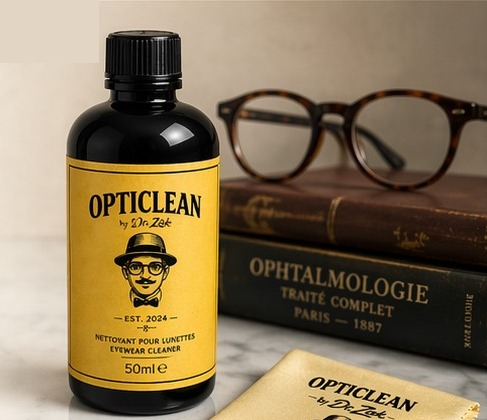
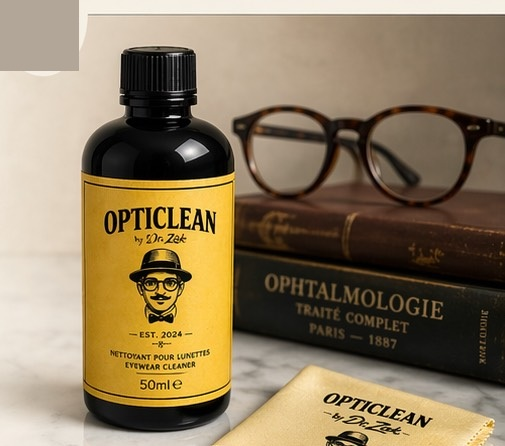
Final homepage: reference imagery blended seamlessly, nav switchers, nbsp prices, browser-language auto-detect

diff --git a/index.html b/index.html
@@ -92,12 +92,6 @@
   .cur.open .cur-menu{opacity:1;visibility:visible;transform:translateY(0)}
   .cur-menu button{display:block;width:100%;text-align:left;color:var(--ink);font-size:.78rem;padding:.5rem .7rem;border-radius:3px;transition:background .2s}
   .cur-menu button:hover{background:var(--cream)}
-  .announce .wrap{justify-content:center}
-  .nav-r .lang-switch button{color:var(--muted);font-size:.72rem}
-  .nav-r .lang-switch button.on{color:var(--gold-deep)}
-  .nav-r .lang-switch{gap:.45rem}
-  .nav-r .cur-btn{color:var(--ink);font-size:.72rem}
-  @media(max-width:980px){ .nav-r .lang-switch, .nav-r .cur{display:none} }
 
   /* ============ HEADER ============ */
   .header{position:sticky;top:0;z-index:50;background:rgba(245,239,226,.9);backdrop-filter:blur(10px);border-bottom:1px solid var(--line-soft);transition:box-shadow .35s}
@@ -348,6 +342,25 @@
     .footer .wrap{grid-template-columns:1fr}
     .rev-track-wrap{margin:0 44px}
   }
+  /* ============ FINAL POLISH ============ */
+  .announce .wrap{justify-content:center}
+  .nav-link{white-space:nowrap}
+  .nav-r .lang-switch{gap:.45rem}
+  .nav-r .lang-switch button{color:var(--muted);font-size:.72rem}
+  .nav-r .lang-switch button.on{color:var(--gold-deep)}
+  .nav-r .cur-btn{color:var(--ink);font-size:.72rem;white-space:nowrap}
+  .pv-price,.pro-price,.pro-pack,.pro-mincmd,.sum-row span:last-child{white-space:nowrap}
+  .hero-photo-wrap{position:relative;max-width:560px;margin:0 auto}
+  .hero-photo{width:100%;height:auto;display:block;border-radius:4px}
+  .hero-photo-wrap::after{content:"";position:absolute;inset:0;pointer-events:none;background:
+    linear-gradient(to right, var(--cream) 0%, rgba(245,239,226,0) 12%),
+    linear-gradient(to left, var(--cream) 0%, rgba(245,239,226,0) 9%),
+    linear-gradient(to bottom, var(--cream) 0%, rgba(245,239,226,0) 10%),
+    linear-gradient(to top, var(--cream) 0%, rgba(245,239,226,0) 10%)}
+  .card{background:#F4EBDE}
+  .pv-photo{width:110px;height:auto;display:block;margin:0 auto;border-radius:3px}
+  .pro-photo{width:215px;height:auto;display:block;margin:0 auto;border-radius:3px}
+  @media(max-width:980px){ .nav-r .lang-switch, .nav-r .cur{display:none} }
   @media(prefers-reduced-motion:reduce){
     *{transition:none!important;animation:none!important;scroll-behavior:auto!important}
     .reveal{opacity:1;transform:none}
@@ -391,7 +404,7 @@
         <button id="lang-en" onclick="setLang('en')">EN</button>
       </div>
       <div class="cur" id="curWrap">
-        <button class="cur-btn" id="curBtn" aria-haspopup="true"><span id="curLabel">EUR €</span><svg viewBox="0 0 12 8" fill="none" stroke="currentColor" stroke-width="1.6"><path d="M1 1.5 6 6l5-4.5"/></svg></button>
+        <button class="cur-btn" id="curBtn" aria-haspopup="true"><span id="curLabel">EUR&nbsp;€</span><svg viewBox="0 0 12 8" fill="none" stroke="currentColor" stroke-width="1.6"><path d="M1 1.5 6 6l5-4.5"/></svg></button>
         <div class="cur-menu" id="curMenu">
           <button onclick="setCurrency('EUR')">EUR &nbsp;€</button>
           <button onclick="setCurrency('CHF')">CHF</button>
@@ -435,7 +448,7 @@
 
     <!-- HERO VISUAL — editorial product scene. Swap for client's real product photography. -->
     <div class="hero-visual reveal" data-d="2">
-      <img class="hero-photo" src="/hero-product.jpg" alt="OptiClean — bouteille, lunettes et livres anciens" onerror="this.onerror=null;this.style.display='none';var f=document.getElementById('heroFallback');if(f)f.style.display='block';">
+      <div class="hero-photo-wrap"><img class="hero-photo" src="/hero-product.jpg" alt="OptiClean — bouteille, lunettes et livres anciens" onerror="this.onerror=null;this.parentNode.style.display='none';var f=document.getElementById('heroFallback');if(f)f.style.display='block';"></div>
       <div id="heroFallback" style="display:none">
       <svg viewBox="0 0 580 540" xmlns="http://www.w3.org/2000/svg">
         <defs>
@@ -544,20 +557,7 @@
         <div class="card-head"><div class="ttl" data-i18n="pv.label">Pour vous</div><div class="ttl-rule"></div></div>
         <div class="pv-inner">
           <div class="pv-img">
-            <svg viewBox="0 0 120 250" xmlns="http://www.w3.org/2000/svg">
-              <ellipse cx="60" cy="244" rx="40" ry="7" fill="#3a2a17" opacity=".15"/>
-              <rect x="38" y="0" width="44" height="26" rx="4" fill="#1a1206"/>
-              <path d="M46 26h28v10c0 4 12 5 12 18v4H34v-4c0-13 12-14 12-18z" fill="#2e2014"/>
-              <rect x="8" y="58" width="104" height="184" rx="18" fill="url(#glass)"/>
-              <rect x="8" y="58" width="40" height="184" rx="18" fill="url(#glassHi)"/>
-              <rect x="18" y="92" width="84" height="124" rx="6" fill="#e8b23c"/>
-              <rect x="18" y="92" width="84" height="124" rx="6" fill="none" stroke="#b9851b" stroke-width="1.2"/>
-              <text x="60" y="118" font-family="Georgia,serif" font-size="12" font-weight="700" fill="#241a06" text-anchor="middle" letter-spacing="1">OPTICLEAN</text>
-              <text x="60" y="130" font-family="Georgia,serif" font-style="italic" font-size="6.5" fill="#5a4310" text-anchor="middle">by Dr. Zac</text>
-              <circle cx="60" cy="158" r="13" fill="none" stroke="#b9851b" stroke-width="1.2"/>
-              <circle cx="56" cy="159" r="2.6" fill="none" stroke="#241a06" stroke-width="1"/><circle cx="64" cy="159" r="2.6" fill="none" stroke="#241a06" stroke-width="1"/>
-              <text x="60" y="200" font-family="Georgia,serif" font-size="10" font-weight="700" fill="#241a06" text-anchor="middle">50ml</text>
-            </svg>
+            <img class="pv-photo" src="/bottle-product.jpg" alt="Bouteille OptiClean 50ml">
           </div>
           <div class="pv-body">
             <div class="pv-name" data-i18n="pv.name">Bouteille 50ml</div>
@@ -574,23 +574,7 @@
         <div class="card-head"><div class="ttl" data-i18n="pro.label">Pour les professionnels</div><div class="ttl-rule"></div></div>
         <div class="pro-inner">
           <div class="pro-img">
-            <svg viewBox="0 0 220 170" xmlns="http://www.w3.org/2000/svg">
-              <ellipse cx="110" cy="158" rx="92" ry="10" fill="#3a2a17" opacity=".14"/>
-              <!-- bottles in box -->
-              <g>
-                <g transform="translate(44 36)"><rect x="0" y="0" width="18" height="44" rx="4" fill="#33240f"/><rect x="5" y="-8" width="8" height="10" rx="2" fill="#15100a"/></g>
-                <g transform="translate(70 30)"><rect x="0" y="0" width="18" height="50" rx="4" fill="#3f2c12"/><rect x="5" y="-8" width="8" height="10" rx="2" fill="#15100a"/></g>
-                <g transform="translate(96 26)"><rect x="0" y="0" width="18" height="54" rx="4" fill="#33240f"/><rect x="5" y="-8" width="8" height="10" rx="2" fill="#15100a"/></g>
-                <g transform="translate(122 30)"><rect x="0" y="0" width="18" height="50" rx="4" fill="#3f2c12"/><rect x="5" y="-8" width="8" height="10" rx="2" fill="#15100a"/></g>
-                <g transform="translate(148 36)"><rect x="0" y="0" width="18" height="44" rx="4" fill="#33240f"/><rect x="5" y="-8" width="8" height="10" rx="2" fill="#15100a"/></g>
-              </g>
-              <!-- box -->
-              <path d="M28 70 L110 88 L192 70 L192 78 L110 98 L28 78 Z" fill="#cfa46a"/>
-              <path d="M28 78 L110 98 L110 156 L28 134 Z" fill="#b0824e"/>
-              <path d="M192 78 L110 98 L110 156 L192 134 Z" fill="#9a6f3f"/>
-              <text x="66" y="126" font-family="Georgia,serif" font-size="13" font-weight="700" fill="#3a2613" text-anchor="middle" transform="rotate(-4 66 126)" letter-spacing="1">OPTICLEAN</text>
-              <g transform="translate(150 118) rotate(4)" stroke="#3a2613" stroke-width="1" fill="none" opacity=".8"><circle cx="0" cy="0" r="11" stroke="#7a5630"/><circle cx="-3.4" cy="1" r="2.4"/><circle cx="3.4" cy="1" r="2.4"/></g>
-            </svg>
+            <img class="pro-photo" src="/pack-product.jpg" alt="Pack de 20 bouteilles OptiClean">
           </div>
           <div class="pro-body">
             <div class="pro-name" data-i18n="pro.name">Pack de 20 bouteilles</div>
@@ -811,7 +795,7 @@ let lang='fr', currency='EUR';
 const RATE={EUR:1,CHF:0.95}, BOTTLE_EUR=9.95, SHIP_EUR=4.90;
 let cartQty=0;
 
-function fmt(eur){const v=eur*RATE[currency];return currency==='EUR'?v.toFixed(2).replace('.',',')+' €':'CHF '+v.toFixed(2);}
+function fmt(eur){const v=eur*RATE[currency];return currency==='EUR'?v.toFixed(2).replace('.',',')+'\u00A0€':'CHF\u00A0'+v.toFixed(2);}
 function renderPrices(){document.querySelectorAll('[data-eur]').forEach(el=>{el.textContent=fmt(parseFloat(el.getAttribute('data-eur')));});document.getElementById('curLabel').textContent=currency==='EUR'?'EUR €':'CHF';}
 function applyI18n(){
   document.querySelectorAll('[data-i18n]').forEach(el=>{const v=STR[lang][el.getAttribute('data-i18n')];if(v!=null)el.textContent=v;});
@@ -878,7 +862,9 @@ document.querySelectorAll('.reveal').forEach(el=>io.observe(el));
 /* hero stars */
 document.getElementById('heroStars').innerHTML='<svg viewBox="0 0 24 24" fill="currentColor"><path d="M12 2l3 6.5 7 .6-5.3 4.6 1.6 6.9L12 17.3 5.7 20.6l1.6-6.9L2 9.1l7-.6z"/></svg>'.repeat(5);
 
-applyI18n();updateBadge();
+/* language follows the visitor's browser UI: French → FR, everything else → EN */
+setLang(((navigator.language||'fr').toLowerCase().startsWith('fr'))?'fr':'en');
+updateBadge();
 </script>
 </body>
 </html>